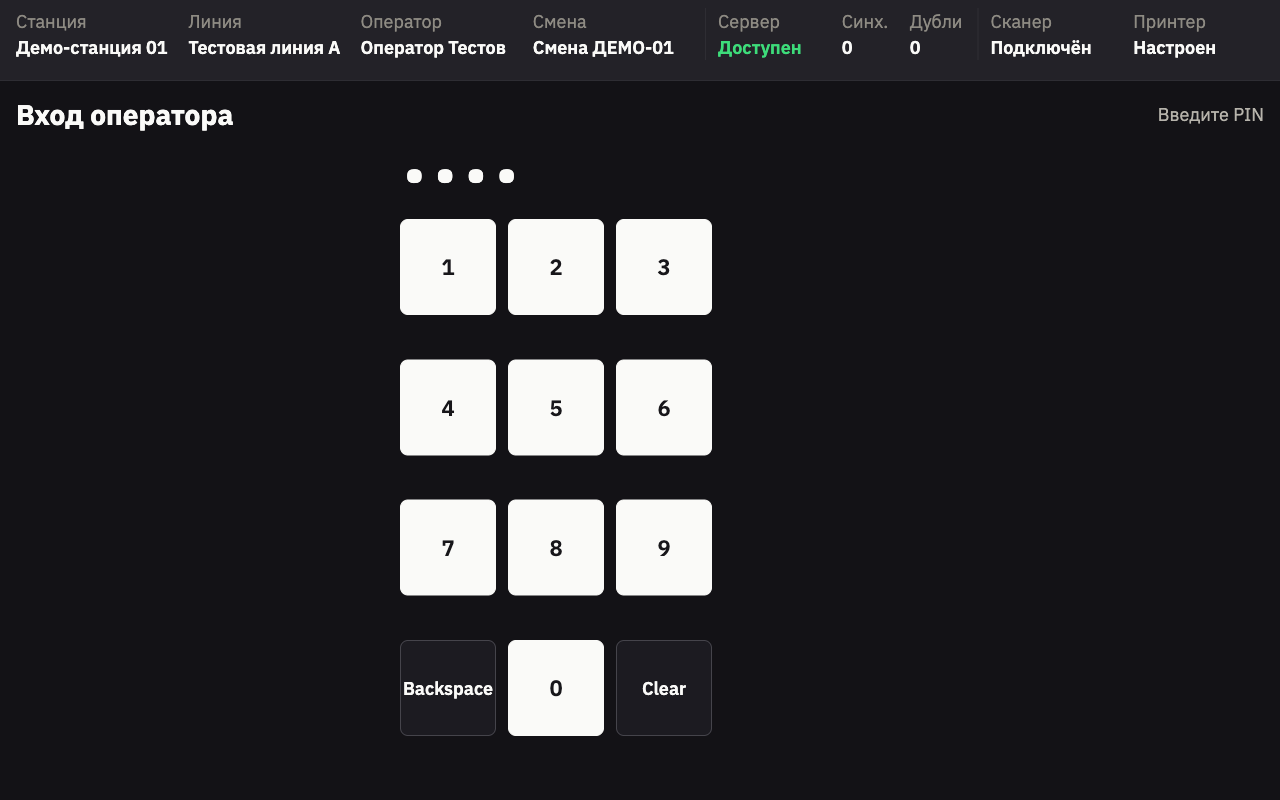
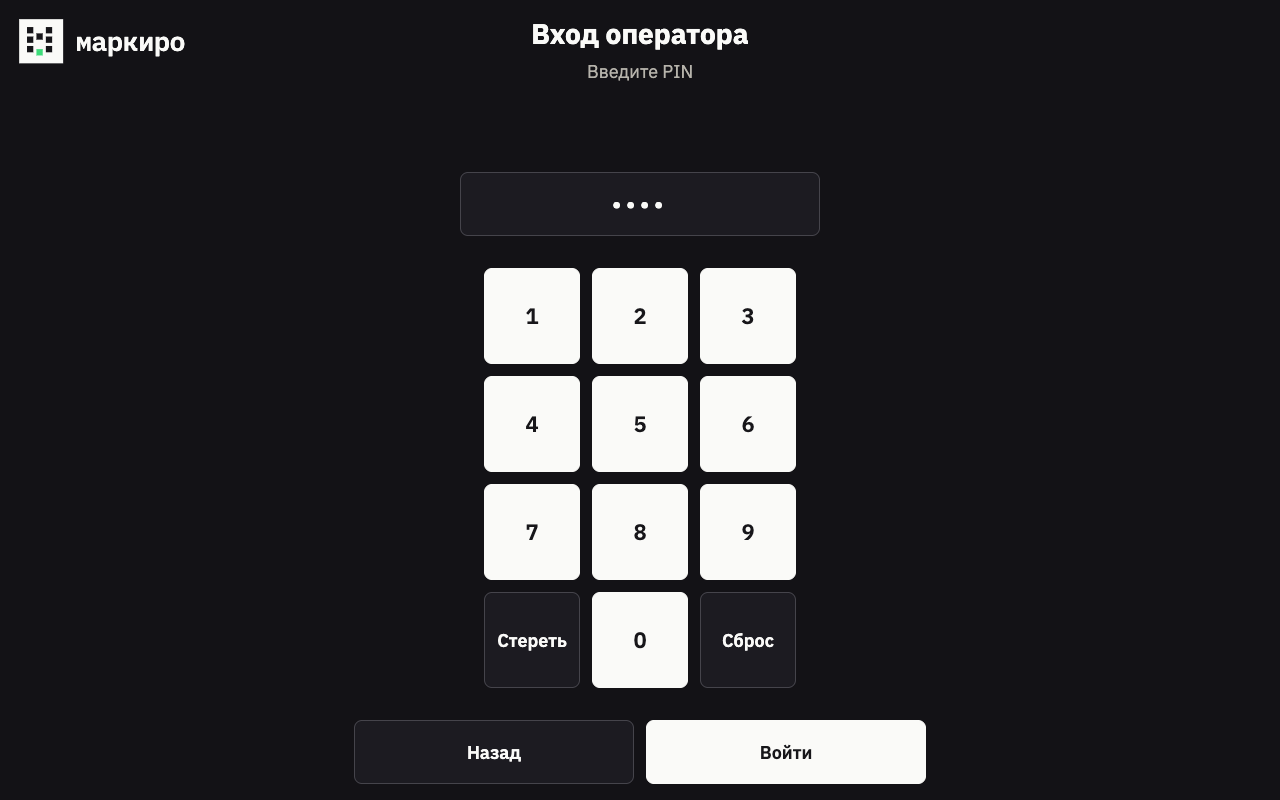
fix(station): sync gallery login and work fixtures with the current UI
login-badge/login-pin/login-name-search were hand-copied markup from
before OperatorLogin's badge-first redesign (missing footer buttons,
wrong copy, no real BadgeScanIllustration/OperatorNameSearch, PIN pad
labels falling back to English on ru). They also inherited the
gallery's FloorShell wrapper, which real OperatorLogin never has and
which clipped the PIN keypad at 1280x800; login fixtures now render
chrome-less like production. work-validation showed mid-shift counters
and a populated scan history under a "waiting for first scan" state,
and never showed the shift's planned quantity.

Re-captured the four affected screenshots at 1280x800 for MKR-INS-01.

diff --git a/apps/station/src/dev/StationScreenGallery.tsx b/apps/station/src/dev/StationScreenGallery.tsx
@@ -1,13 +1,17 @@
-import { useLayoutEffect, useRef } from "react";
+import { useLayoutEffect, useRef, type CSSProperties } from "react";
 import { Alert, Button, Card, PinPad, SignalOverlay } from "@markiro/ui";
+import type { OperatorMirrorRecord } from "@markiro/db/station-sqlite";
 
 import i18n from "../i18n/index.js";
 import type { BoxPrintErrorCode } from "../lib/boxes.js";
 import type { RecentOperation } from "../lib/journal.js";
+import { BadgeScanIllustration } from "../ui/BadgeScanIllustration.js";
 import { BoxPrintRecovery } from "../ui/BoxPrintRecovery.js";
 import { FloorFooter } from "../ui/FloorFooter.js";
 import { FloorShell } from "../ui/FloorShell.js";
+import { OperatorNameSearch } from "../ui/OperatorNameSearch.js";
 import { ShiftCard } from "../ui/ShiftCard.js";
+import { StationBrand } from "../ui/StationBrand.js";
 import { StationScreen } from "../ui/StationScreen.js";
 import { WindowModeControl } from "../ui/WindowModeControl.js";
 import { BoxFillInstrument } from "../ui/work/BoxFillInstrument.js";
@@ -76,6 +80,27 @@ export function StationScreenGallery({ request }: StationScreenGalleryProps) {
   useLayoutEffect(() => {
     void i18n.changeLanguage(request.locale);
   }, [request.locale]);
+
+  if (fixture.kind === "login") {
+    // The real OperatorLogin never renders inside the FloorShell station
+    // chrome -- App.tsx's `stage === "login"` branch mounts it directly
+    // under `withWindowChrome`, not `<FloorShell>`, because there is no
+    // station/operator/shift identity yet to show in a status bar. Wrapping
+    // it in the shared status bar the way every other fixture is wrapped
+    // would steal ~80px from this fixed, non-scrolling screen and visibly
+    // clip the PIN keypad's last row -- a capture artifact the real screen
+    // never has.
+    return (
+      <div
+        className="station-gallery-capture station-window-frame"
+        data-testid="station-screen-gallery"
+        data-gallery-state={fixture.id}
+        data-gallery-locale={request.locale}
+      >
+        <GalleryState fixture={fixture} locale={request.locale} />
+      </div>
+    );
+  }
 
   const syncVariant = fixture.kind === "sync" ? fixture.variant : null;
   const headerVariant = fixture.kind === "floor-header" ? fixture.variant : null;
@@ -329,68 +354,185 @@ function PairingFixture({ variant, locale }: { variant: string; locale: GalleryL
   );
 }
 
+const RU_SEARCH_ROSTER_NAMES = [
+  "Александрова-Романовская Екатерина Владимировна",
+  "Иванов Алексей Сергеевич",
+  "Петрова Мария Андреевна",
+  "Смирнов Александр Олегович",
+  "Фёдорова Елена Викторовна",
+];
+const EN_SEARCH_ROSTER_NAMES = [
+  "Alexandria Montgomery-Wellington the Third",
+  "Alex Johnson",
+  "Alice Peterson",
+  "Alicia Smith",
+  "Alison Foster",
+];
+
+/** Every entry matches the fixed query below through the real `searchOperatorsByName`. */
+function galleryOperatorRoster(locale: GalleryLocale): OperatorMirrorRecord[] {
+  const names = locale === "ru" ? RU_SEARCH_ROSTER_NAMES : EN_SEARCH_ROSTER_NAMES;
+  return names.map((name, index) => ({
+    operatorId: `gallery-search-operator-${index}`,
+    name,
+    login: String(100234001 + index),
+    role: "packer",
+    pinHash: "gallery-demo-pin-hash",
+    badgeHash: null,
+    active: true,
+  }));
+}
+
+/** Mirrors OperatorLogin.tsx's own render tree (composed from the same real
+ * sub-components) instead of hand-copied markup, so the captured screenshot
+ * matches the current badge-first sign-in flow stage for stage. */
 function LoginFixture({ variant, locale }: { variant: string; locale: GalleryLocale }) {
-  const ru = locale === "ru";
-  const isSearch = variant === "name-search";
-  const searchNames = ru
-    ? [
-        "Александрова-Романовская Екатерина Владимировна",
-        "Иванов Алексей Сергеевич",
-        "Петрова Мария Андреевна",
-        "Смирнов Александр Олегович",
-        "Фёдорова Елена Викторовна",
-      ]
-    : [
-        "Alexandria Montgomery-Wellington the Third",
-        "Alex Johnson",
-        "Alice Peterson",
-        "Alicia Smith",
-        "Alison Foster",
-      ];
-  const title = ru ? "Вход оператора" : "Operator sign-in";
-  const prompt =
+  const t = i18n.getFixedT(locale);
+  const stage: "badge" | "login" | "pin" | "search" =
     variant === "badge"
-      ? ru
-        ? "Приложите пропуск"
-        : "Present badge"
-      : variant === "number"
-        ? ru
-          ? "Введите логин"
-          : "Enter login"
-        : variant === "pin"
-          ? ru
-            ? "Введите PIN"
-            : "Enter PIN"
-          : ru
-            ? "Найдите себя по имени"
-            : "Find your name";
+      ? "badge"
+      : variant === "pin"
+        ? "pin"
+        : variant === "name-search"
+          ? "search"
+          : "login";
+  const prompt =
+    stage === "badge"
+      ? t("login.badgePrimary")
+      : stage === "login"
+        ? t("login.loginPrompt")
+        : stage === "search"
+          ? t("login.nameSearchPrompt")
+          : t("login.pinPrompt");
+  const loginValue = "0042";
+  const pinValue = "1234";
+  const roster = galleryOperatorRoster(locale);
+  const searchQuery = locale === "ru" ? "ов" : "Al";
+
   return (
-    <StationScreen title={title} header={<p className="gallery-subtitle">{prompt}</p>}>
-      {isSearch ? (
-        <div className="gallery-search-grid" data-testid="gallery-name-search-results">
-          <div className="gallery-search-field">{ru ? "Але" : "Ale"}</div>
-          {searchNames.map((name) => (
-            <Button key={name} size="floor" variant="secondary" fullWidth>
-              <span className="operator-name-search__result-label">{name}</span>
+    <main className="operator-login" aria-labelledby="gallery-operator-login-title">
+      <header className="operator-login__header">
+        <StationBrand
+          compact
+          className="operator-login__brand"
+          descriptor={t("app.stationDescriptor")}
+        />
+        <div className="operator-login__prompt">
+          <h1 id="gallery-operator-login-title">{t("login.title")}</h1>
+          <p>{prompt}</p>
+        </div>
+      </header>
+
+      <div
+        className="operator-login__message"
+        aria-live="polite"
+        style={{ minHeight: 64, overflow: "hidden" }}
+      />
+
+      {stage === "badge" ? (
+        <div
+          className="operator-login__scanner-status"
+          role="status"
+          aria-label={t("login.badgeReady")}
+        >
+          <span className="operator-login__scanner-status-icon" aria-hidden="true">
+            ✓
+          </span>
+          <span>{t("login.badgeReady")}</span>
+        </div>
+      ) : null}
+
+      <div
+        className={`operator-login__body${stage === "badge" ? " operator-login__body--badge" : ""}`}
+      >
+        {stage === "search" ? (
+          // `display: contents` keeps this wrapper (added only to give the
+          // capture a stable query hook) out of the box model, so
+          // `.operator-name-search` still lands directly in
+          // `.operator-login__body`'s grid the way production's untouched
+          // JSX does -- required for its `grid-row: 1 / -1; height: 100%`.
+          <div data-testid="gallery-name-search-results" style={{ display: "contents" }}>
+            <OperatorNameSearch
+              operators={roster}
+              query={searchQuery}
+              onQueryChange={() => undefined}
+              onSelect={() => undefined}
+              disabled={false}
+            />
+          </div>
+        ) : (
+          <>
+            {stage !== "badge" ? (
+              <div
+                className="operator-login__readout"
+                aria-label={stage === "login" ? "login" : "pin"}
+              >
+                {stage === "login" ? loginValue : "•".repeat(pinValue.length)}
+              </div>
+            ) : null}
+            <div className="operator-login__keypad-zone">
+              {stage === "badge" ? (
+                <div className="operator-login__badge-panel">
+                  <BadgeScanIllustration />
+                  <div className="operator-login__badge-copy">
+                    <h2>{t("login.badgeInstruction")}</h2>
+                    <p>{t("login.badgeExplanation")}</p>
+                  </div>
+                </div>
+              ) : (
+                <PinPad
+                  value={stage === "login" ? loginValue : pinValue}
+                  onChange={() => undefined}
+                  maxLength={stage === "login" ? 12 : 6}
+                  size="floor"
+                  ariaLabel={stage === "login" ? t("login.loginKeypad") : t("login.pinKeypad")}
+                  backspaceLabel={t("login.backspace")}
+                  clearLabel={t("login.clear")}
+                />
+              )}
+            </div>
+          </>
+        )}
+      </div>
+
+      <div
+        className="operator-login__actions"
+        style={{ "--operator-login-action-columns": stage === "login" ? 3 : 2 } as CSSProperties}
+      >
+        {stage === "badge" ? (
+          <>
+            <Button size="floor" variant="secondary">
+              {t("login.findByName")}
             </Button>
-          ))}
-        </div>
-      ) : variant === "badge" ? (
-        <div className="gallery-badge" aria-hidden="true">
-          ▣
-        </div>
-      ) : (
-        <div className="gallery-keypad">
-          <div className="gallery-code">{variant === "pin" ? "••••" : "0042"}</div>
-          <PinPad
-            value={variant === "pin" ? "1234" : "0042"}
-            maxLength={12}
-            size="floor"
-            onChange={() => undefined}
-          />
-        </div>
-      )}
-    </StationScreen>
+            <Button size="floor">{t("login.useLogin")}</Button>
+          </>
+        ) : stage === "login" ? (
+          <>
+            <Button size="floor" variant="secondary">
+              {t("login.back")}
+            </Button>
+            <Button size="floor" variant="secondary">
+              {t("login.findByName")}
+            </Button>
+            <Button size="floor">{t("login.next")}</Button>
+          </>
+        ) : stage === "pin" ? (
+          <>
+            <Button size="floor" variant="secondary">
+              {t("login.back")}
+            </Button>
+            <Button size="floor">{t("login.submit")}</Button>
+          </>
+        ) : (
+          <>
+            <Button size="floor" variant="secondary">
+              {t("login.back")}
+            </Button>
+            <Button size="floor">{t("login.useLogin")}</Button>
+          </>
+        )}
+      </div>
+    </main>
   );
 }
 
@@ -623,10 +765,18 @@ function ShiftFixture({ variant, locale }: { variant: string; locale: GalleryLoc
 
 function WorkFixture({ mode, locale }: { mode: string; locale: GalleryLocale }) {
   const ru = locale === "ru";
+  const t = i18n.getFixedT(locale);
   const aggregation = mode.startsWith("aggregation");
+  // "waiting" is a freshly opened shift: no scan has landed yet, so the
+  // journal-backed counters and recent-operations list must be empty too --
+  // not the mid-shift numbers a screen with an actual scan history would show.
   const waiting = mode === "validation" || mode === "aggregation-waiting";
-  const workLabels = buildWorkLabels(i18n.getFixedT(locale), locale, 1);
-  const operations = galleryRecentOperations();
+  const workLabels = buildWorkLabels(t, locale, 1);
+  const operations = waiting ? [] : galleryRecentOperations();
+  // Validation-mode shifts carry a plan target the way the shift list's own
+  // validation-mode card does (see ShiftFixture's AUG26-041); aggregation-mode
+  // shifts in this gallery have no plan, matching the shift list there too.
+  const plannedQty = mode === "validation" ? 10_000 : undefined;
   return (
     <main className="work-screen" aria-label={ru ? "Тестовый товар А" : "Sample product A"}>
       <div className="work-screen__content">
@@ -638,6 +788,8 @@ function WorkFixture({ mode, locale }: { mode: string; locale: GalleryLocale }) 
               image={galleryProductImage}
               productName={ru ? "Тестовый товар А" : "Sample product A"}
               counterpartyName={ru ? "ООО «Тестовый производитель»" : "Sample Manufacturer Ltd"}
+              plannedQty={plannedQty}
+              planLabel={t("work.plan")}
               operation={waiting ? null : (operations[0] ?? null)}
               labels={workLabels.status}
             />
@@ -657,9 +809,9 @@ function WorkFixture({ mode, locale }: { mode: string; locale: GalleryLocale }) 
           </div>
           <aside className="work-screen__secondary" aria-label={workLabels.summary}>
             <WorkCounters
-              accepted={1248}
-              rejected={3}
-              pendingSync={7}
+              accepted={waiting ? 0 : 1248}
+              rejected={waiting ? 0 : 3}
+              pendingSync={waiting ? 0 : 7}
               locale={workLabels.locale}
               labels={workLabels.counters}
             />

diff --git a/apps/station/test/screen-gallery.test.tsx b/apps/station/test/screen-gallery.test.tsx
@@ -294,13 +294,22 @@ describe("development screen gallery", () => {
     vi.stubGlobal("fetch", fetchSpy);
 
     for (const state of EXPECTED_GALLERY_STATE_IDS) {
+      const fixture = GALLERY_FIXTURES.find((candidate) => candidate.id === state);
       const view = render(<StationScreenGallery request={{ state, locale: "ru" }} />);
 
       expect(screen.getByTestId("station-screen-gallery").getAttribute("data-gallery-state")).toBe(
         state,
       );
-      expect(view.container.querySelector(".station-root")).not.toBeNull();
-      expect(view.container.querySelector(".station-screen-slot")).not.toBeNull();
+      if (fixture?.kind === "login") {
+        // Sign-in has no station/operator/shift identity yet, so -- exactly
+        // like the production `stage === "login"` branch in App.tsx -- it
+        // renders without the shared FloorShell status bar.
+        expect(view.container.querySelector(".operator-login")).not.toBeNull();
+        expect(view.container.querySelector(".station-root")).toBeNull();
+      } else {
+        expect(view.container.querySelector(".station-root")).not.toBeNull();
+        expect(view.container.querySelector(".station-screen-slot")).not.toBeNull();
+      }
 
       view.unmount();
     }
